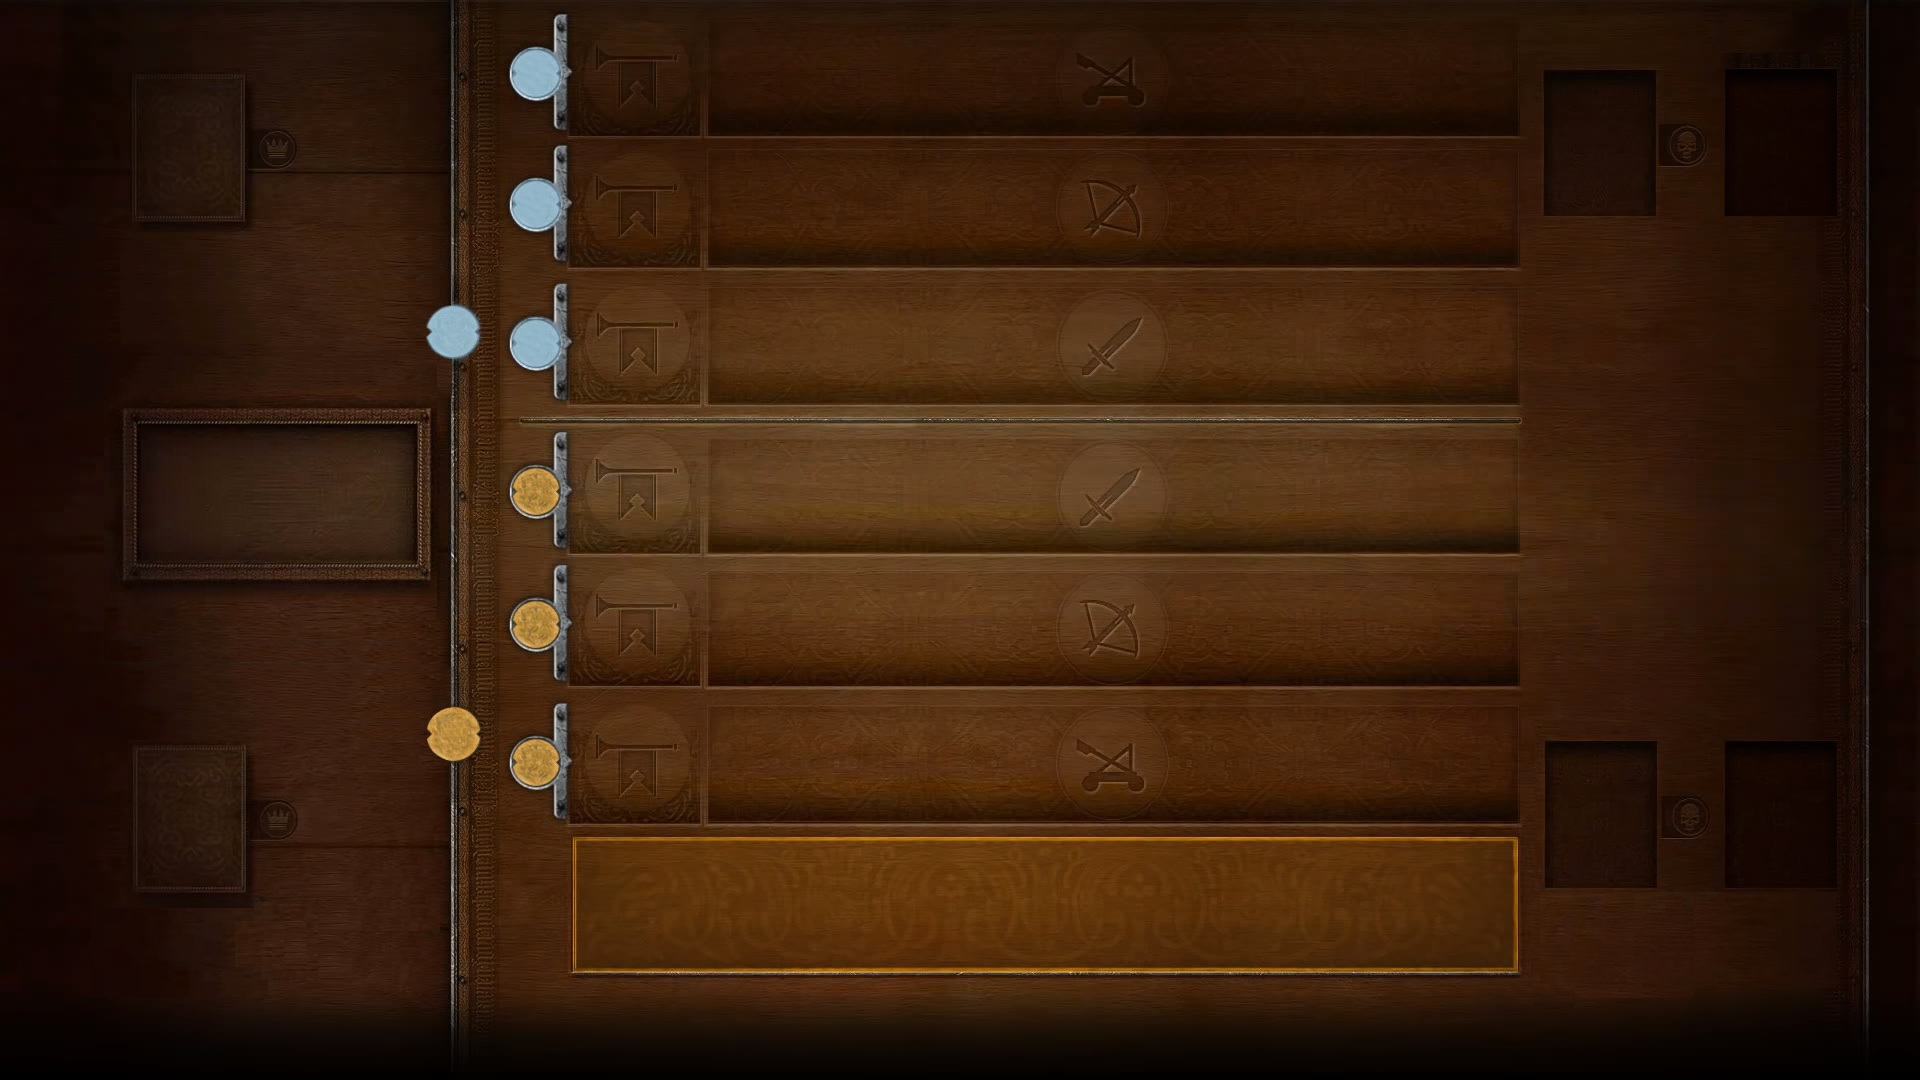
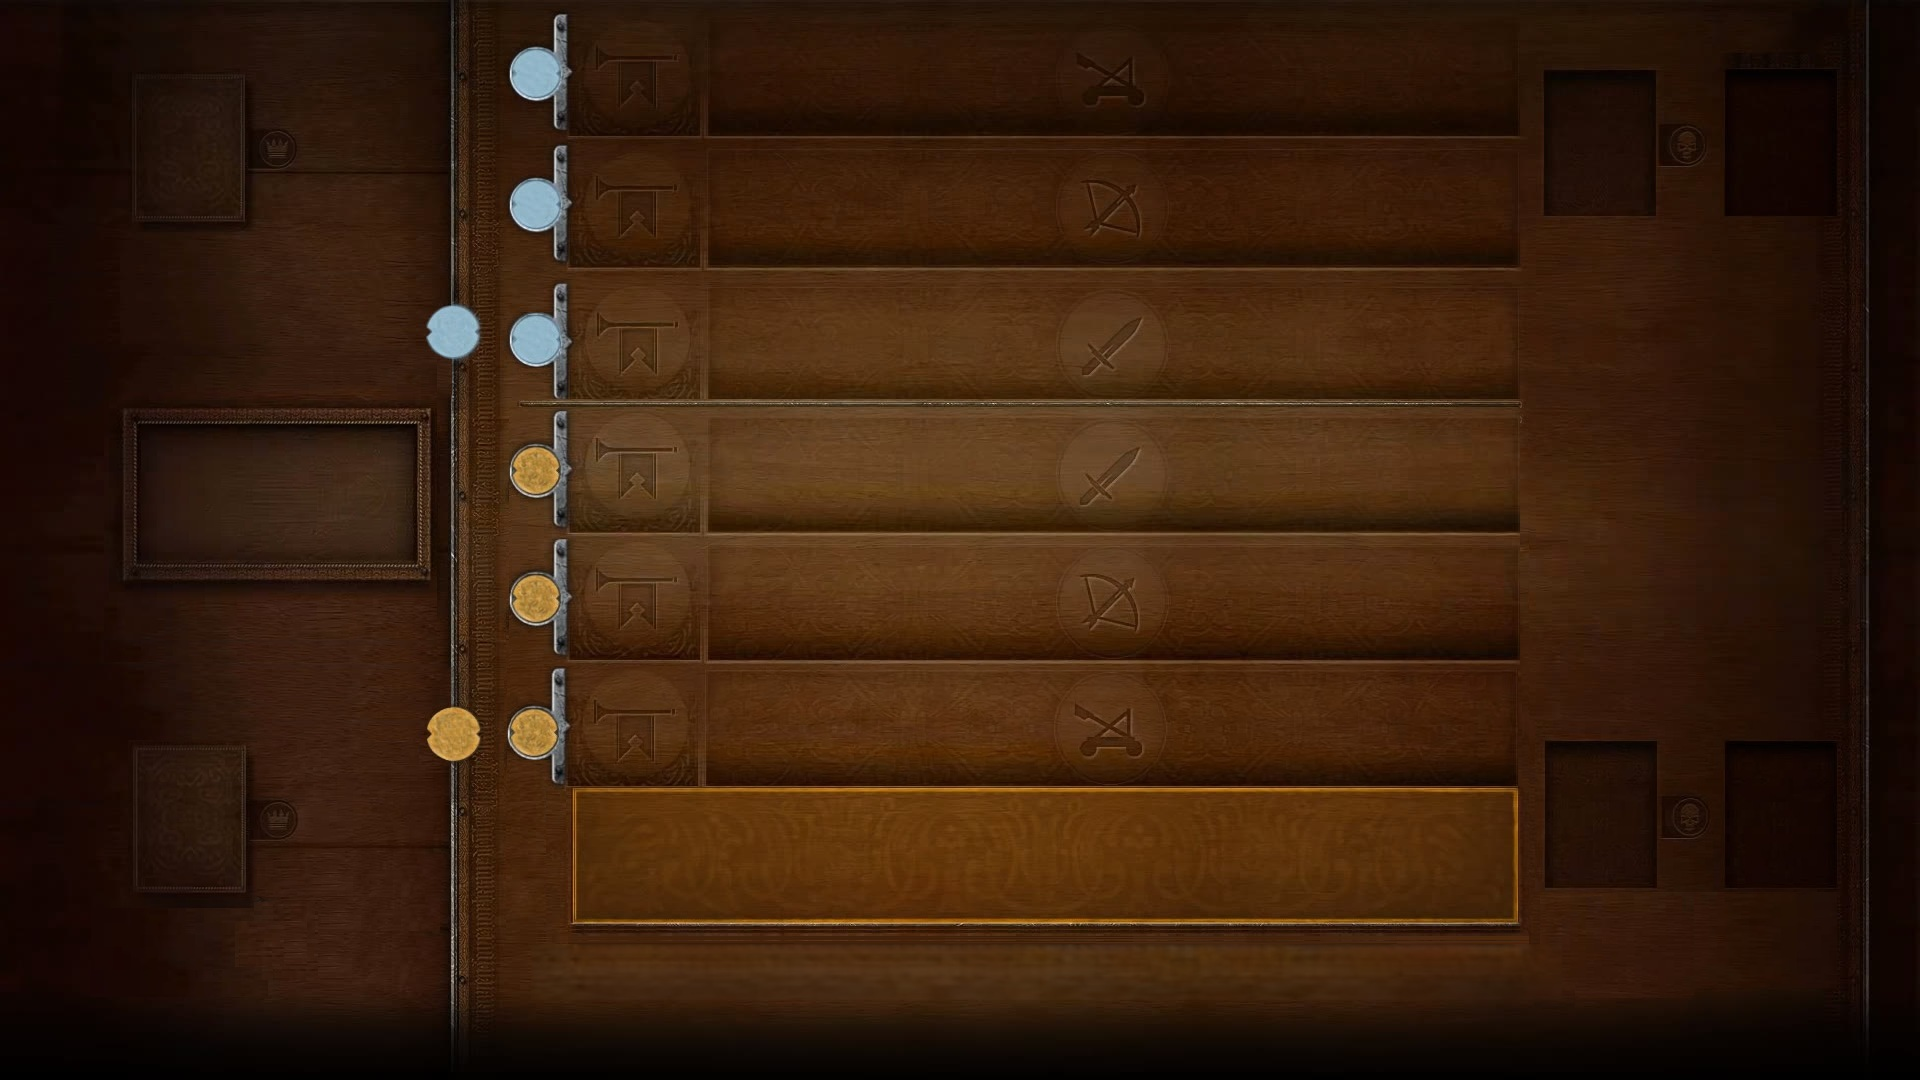
Adapted the game's visual style for a fully responsive mobile experience.
Restructured the game board layout for a responsive mobile experience. This involved rearranging slots and containers, ensuring everything fits seamlessly on mobile screens.

Changed region(s): [[0.25, 0.3667, 0.8125, 0.7944], [0.2812, 0.825, 0.8125, 0.9167], [0.25, 0.275, 0.2812, 0.3056]]

diff --git a/javascript/gwent.js b/javascript/gwent.js
@@ -2444,9 +2444,7 @@ let cardLeaderMenu = document.getElementById("card-leader");
 					startAIGameBtn.style.display = "none";
 				}
 			}
-			
-			// --- DISPARO DE ARRANQUE INICIAL ---
-			// Forzamos la primera colocación al encender el juego
+						
 			if (typeof actualizarPosicionMusicaMovel === "function") {
 				actualizarPosicionMusicaMovel();
 			}
@@ -2579,6 +2577,28 @@ font-size: 11px !important;
     margin: 42.5% 1% 0;
     }
               
+html, body, #click-background {
+	overflow: hidden !important;
+ }
+
+#field-me {
+	top: -3.3% !important;
+}
+
+#field-op {
+	top: -1.5% !important;
+	transform: none !important;
+}
+
+#f5 {
+	transform: translateY(-0.25vw) !important;
+}
+
+
+#f6 {
+	transform: translateY(-0.5vw) !important;
+}
+
 			`;
 			document.head.appendChild(estiloQuotesMovel);
 			
@@ -3341,8 +3361,30 @@ class DeckMaker {
 		document.getElementById("select-op-deck").addEventListener("click", () => this.selectOPDeck(), false);
 		document.getElementById("download-deck").addEventListener("click", () => this.downloadDeck(), false);
 		document.getElementById("add-file").addEventListener("change", () => this.uploadDeck(), false);
-		document.getElementById("start-game").addEventListener("click", () => this.startNewGame(false), false);
-		document.getElementById("start-ai-game").addEventListener("click", () => this.startNewGame(true), false);
+
+        const actualizartituloporid = () => {
+            let elemTituloFaccion = document.getElementById("faction-title");
+            if (elemTituloFaccion) {
+                this.me_deck_title = elemTituloFaccion.innerText || elemTituloFaccion.textContent || "Northern Realms";
+            } else {
+                this.me_deck_title = "Northern Realms";
+            }
+                  
+            if (ui && ui.player1Deck) { ui.player1Deck.title = this.me_deck_title; }
+            ui.player1DeckTitle = this.me_deck_title;
+        };
+
+        document.getElementById("start-game").addEventListener("click", () => { 
+            actualizartituloporid(); 
+            this.startNewGame(false); 
+        }, false);
+
+        document.getElementById("start-ai-game").addEventListener("click", () => { 
+            actualizartituloporid(); 
+            this.startNewGame(true); 
+        }, false);
+
+
 		window.addEventListener("keydown", function (e) {
 			if (document.getElementById("deck-customization").className.indexOf("hide") == -1) {
 				switch(e.keyCode) {
@@ -4443,13 +4485,11 @@ musicToggle.style.gap = "15px";
 }
 
 (function() {
-    if (typeof window !== "undefined") {
-        // Obligamos al navegador a mantener la escala de texto fija al 100%
+    if (typeof window !== "undefined") {       
         if (window.chrome && window.chrome.webview) {
             window.chrome.webview.postMessage({ type: "SET_TEXT_ZOOM", value: 100 });
         }
-        
-        // Bloqueamos que Android intente estirar los rem/em mediante estilos computados
+     
         let estiloBlindaje = document.createElement("style");
         estiloBlindaje.innerHTML = `
             * {
@@ -4461,3 +4501,4 @@ musicToggle.style.gap = "15px";
         document.head.appendChild(estiloBlindaje);
     }
 })();
+

diff --git a/index.html b/index.html
@@ -373,6 +373,18 @@
     }
     window.addEventListener('click', iniciarAlTocar);
     window.addEventListener('touchstart', iniciarAlTocar);
+ document.addEventListener("visibilitychange", function() {
+        if (audio && audio.src && audio.src !== "") {
+            if (document.hidden) {
+                audio._fuePausadoPorSistema = !audio.paused;
+                audio.pause();
+            } else {
+                if (audio._fuePausadoPorSistema) {
+                    audio.play().catch(function(e) { console.log("Bloqueo de hardware evitado"); });
+                }
+            }
+        }
+    });
 </script>
 
 

diff --git a/css/style.css b/css/style.css
@@ -1036,7 +1036,7 @@ background-size: cover;
 #faction-description {
 	font-size:1.14vw;
 	color:#ab977c;
-	top:9.45%;
+	top:9%;
 	left:20.2%;
 	width:60%
 }